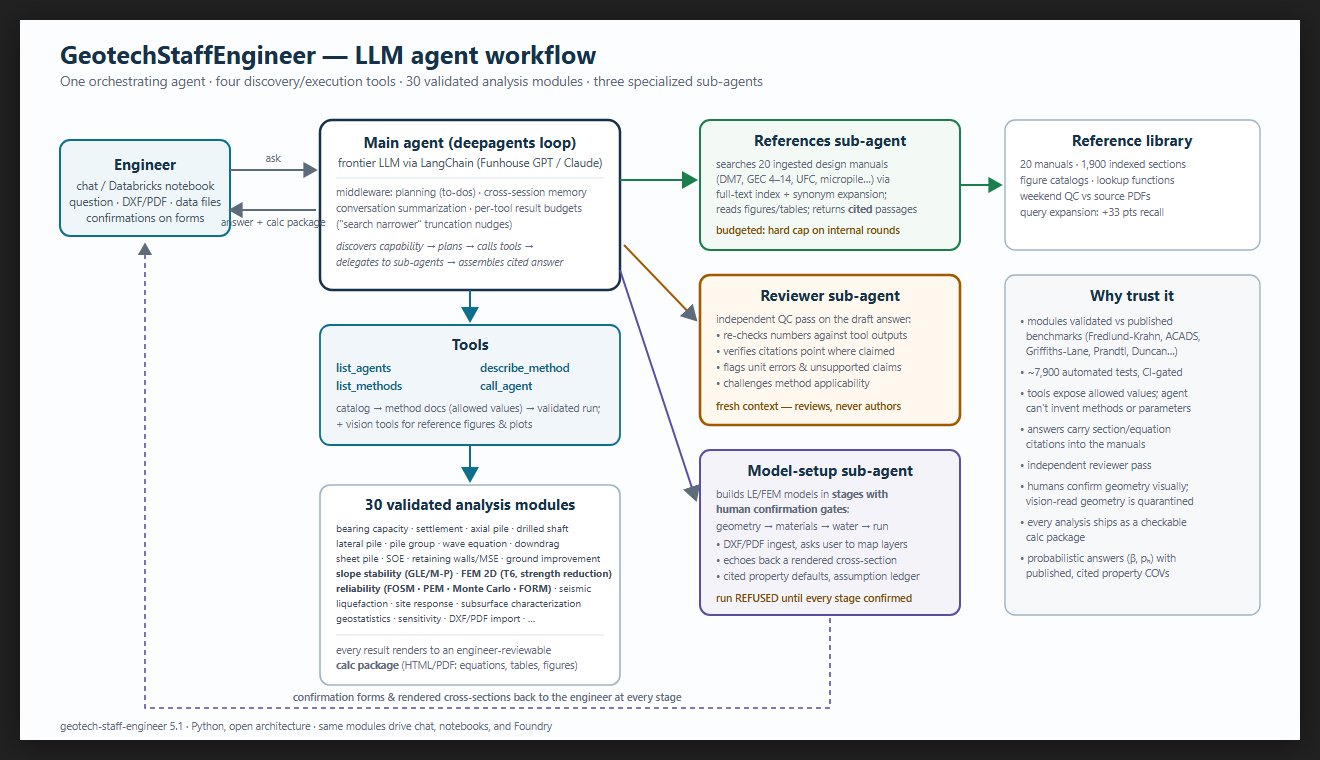
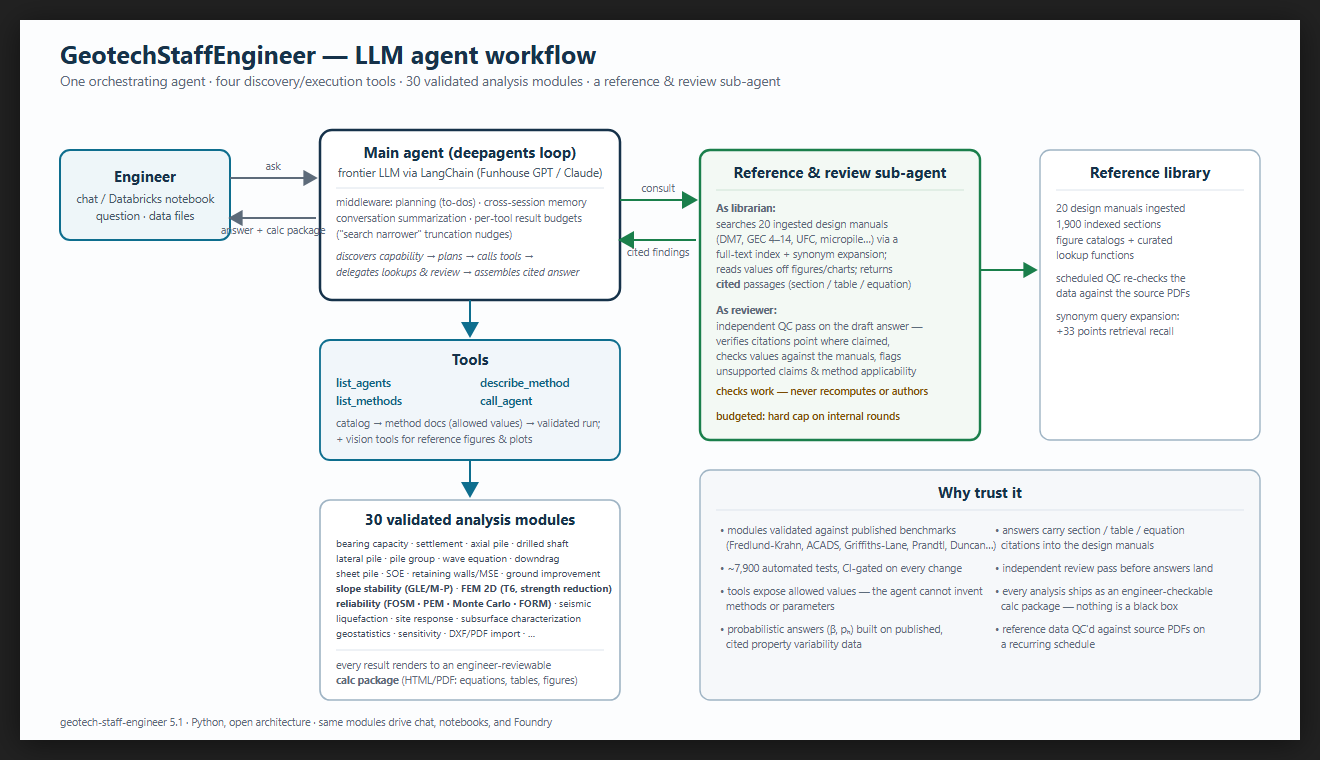
docs: slide rev - single reference & review sub-agent box, model-setup removed for presentation

Changed region(s): [[0.0311, 0.1513, 0.9629, 0.9684], [0.4348, 0.0908, 0.5902, 0.1211], [0.9318, 0.575, 0.9629, 0.6355]]

diff --git a/docs/agent_workflow_slide.html b/docs/agent_workflow_slide.html
@@ -35,129 +35,122 @@
 
   <!-- Title -->
   <text x="40" y="44" class="title">GeotechStaffEngineer — LLM agent workflow</text>
-  <text x="40" y="66" class="subtitle">One orchestrating agent &middot; four discovery/execution tools &middot; 30 validated analysis modules &middot; three specialized sub-agents</text>
+  <text x="40" y="66" class="subtitle">One orchestrating agent &middot; four discovery/execution tools &middot; 30 validated analysis modules &middot; a reference &amp; review sub-agent</text>
 
   <!-- ============ USER ============ -->
-  <rect x="40" y="120" width="170" height="96" rx="10" fill="#eef6f9" stroke="#0e6e8e" stroke-width="2"/>
-  <text x="125" y="150" text-anchor="middle" class="boxtitle">Engineer</text>
-  <text x="125" y="170" text-anchor="middle" class="boxsub">chat / Databricks notebook</text>
-  <text x="125" y="186" text-anchor="middle" class="boxsub">question &middot; DXF/PDF &middot; data files</text>
-  <text x="125" y="202" text-anchor="middle" class="boxsub">confirmations on forms</text>
+  <rect x="40" y="130" width="170" height="90" rx="10" fill="#eef6f9" stroke="#0e6e8e" stroke-width="2"/>
+  <text x="125" y="162" text-anchor="middle" class="boxtitle">Engineer</text>
+  <text x="125" y="183" text-anchor="middle" class="boxsub">chat / Databricks notebook</text>
+  <text x="125" y="200" text-anchor="middle" class="boxsub">question &middot; data files</text>
 
   <!-- ============ MAIN AGENT ============ -->
-  <rect x="300" y="100" width="300" height="170" rx="12" fill="#ffffff" stroke="#16324a" stroke-width="2.5"/>
-  <text x="450" y="128" text-anchor="middle" class="boxtitle">Main agent (deepagents loop)</text>
-  <text x="450" y="147" text-anchor="middle" class="boxsub">frontier LLM via LangChain (Funhouse GPT / Claude)</text>
-  <line x1="316" y1="158" x2="584" y2="158" stroke="#dde4ec"/>
-  <text x="316" y="176" class="small">middleware: planning (to-dos) &middot; cross-session memory</text>
-  <text x="316" y="192" class="small">conversation summarization &middot; per-tool result budgets</text>
-  <text x="316" y="208" class="small">("search narrower" truncation nudges)</text>
-  <text x="316" y="230" class="small" font-style="italic">discovers capability &rarr; plans &rarr; calls tools &rarr;</text>
-  <text x="316" y="246" class="small" font-style="italic">delegates to sub-agents &rarr; assembles cited answer</text>
+  <rect x="300" y="110" width="300" height="170" rx="12" fill="#ffffff" stroke="#16324a" stroke-width="2.5"/>
+  <text x="450" y="138" text-anchor="middle" class="boxtitle">Main agent (deepagents loop)</text>
+  <text x="450" y="157" text-anchor="middle" class="boxsub">frontier LLM via LangChain (Funhouse GPT / Claude)</text>
+  <line x1="316" y1="168" x2="584" y2="168" stroke="#dde4ec"/>
+  <text x="316" y="186" class="small">middleware: planning (to-dos) &middot; cross-session memory</text>
+  <text x="316" y="202" class="small">conversation summarization &middot; per-tool result budgets</text>
+  <text x="316" y="218" class="small">("search narrower" truncation nudges)</text>
+  <text x="316" y="240" class="small" font-style="italic">discovers capability &rarr; plans &rarr; calls tools &rarr;</text>
+  <text x="316" y="256" class="small" font-style="italic">delegates lookups &amp; review &rarr; assembles cited answer</text>
 
   <!-- user <-> agent arrows -->
-  <line x1="210" y1="150" x2="296" y2="150" stroke="#5d6b7a" stroke-width="1.8" marker-end="url(#arr)"/>
-  <line x1="296" y1="190" x2="210" y2="190" stroke="#5d6b7a" stroke-width="1.8" marker-end="url(#arr)"/>
-  <text x="253" y="142" text-anchor="middle" class="small">ask</text>
-  <text x="253" y="206" text-anchor="middle" class="small">answer + calc package</text>
+  <line x1="210" y1="158" x2="296" y2="158" stroke="#5d6b7a" stroke-width="1.8" marker-end="url(#arr)"/>
+  <line x1="296" y1="198" x2="210" y2="198" stroke="#5d6b7a" stroke-width="1.8" marker-end="url(#arr)"/>
+  <text x="253" y="150" text-anchor="middle" class="small">ask</text>
+  <text x="253" y="214" text-anchor="middle" class="small">answer + calc package</text>
 
   <!-- ============ TOOLS ============ -->
-  <rect x="300" y="305" width="300" height="120" rx="10" fill="#f1f6fa" stroke="#0e6e8e" stroke-width="1.8"/>
-  <text x="450" y="330" text-anchor="middle" class="boxtitle" fill="#0e5e7e">Tools</text>
-  <text x="316" y="352" class="tooltxt">list_agents</text>
-  <text x="316" y="370" class="tooltxt">list_methods</text>
-  <text x="460" y="352" class="tooltxt">describe_method</text>
-  <text x="460" y="370" class="tooltxt">call_agent</text>
-  <text x="316" y="392" class="small">catalog &rarr; method docs (allowed values) &rarr; validated run;</text>
-  <text x="316" y="408" class="small">+ vision tools for reference figures &amp; plots</text>
+  <rect x="300" y="320" width="300" height="120" rx="10" fill="#f1f6fa" stroke="#0e6e8e" stroke-width="1.8"/>
+  <text x="450" y="345" text-anchor="middle" class="boxtitle" fill="#0e5e7e">Tools</text>
+  <text x="316" y="367" class="tooltxt">list_agents</text>
+  <text x="316" y="385" class="tooltxt">list_methods</text>
+  <text x="460" y="367" class="tooltxt">describe_method</text>
+  <text x="460" y="385" class="tooltxt">call_agent</text>
+  <text x="316" y="407" class="small">catalog &rarr; method docs (allowed values) &rarr; validated run;</text>
+  <text x="316" y="423" class="small">+ vision tools for reference figures &amp; plots</text>
 
-  <line x1="450" y1="270" x2="450" y2="301" stroke="#0e6e8e" stroke-width="2" marker-end="url(#arrB)"/>
+  <line x1="450" y1="280" x2="450" y2="316" stroke="#0e6e8e" stroke-width="2" marker-end="url(#arrB)"/>
 
   <!-- ============ MODULES ============ -->
-  <rect x="300" y="465" width="300" height="200" rx="10" fill="#ffffff" stroke="#9fb4c4" stroke-width="1.6"/>
-  <text x="450" y="490" text-anchor="middle" class="boxtitle">30 validated analysis modules</text>
-  <text x="316" y="512" class="modtxt">bearing capacity &middot; settlement &middot; axial pile &middot; drilled shaft</text>
-  <text x="316" y="527" class="modtxt">lateral pile &middot; pile group &middot; wave equation &middot; downdrag</text>
-  <text x="316" y="542" class="modtxt">sheet pile &middot; SOE &middot; retaining walls/MSE &middot; ground improvement</text>
-  <text x="316" y="557" class="modtxt"><tspan font-weight="700">slope stability (GLE/M-P)</tspan> &middot; <tspan font-weight="700">FEM 2D (T6, strength reduction)</tspan></text>
-  <text x="316" y="572" class="modtxt"><tspan font-weight="700">reliability (FOSM &middot; PEM &middot; Monte Carlo &middot; FORM)</tspan> &middot; seismic</text>
-  <text x="316" y="587" class="modtxt">liquefaction &middot; site response &middot; subsurface characterization</text>
-  <text x="316" y="602" class="modtxt">geostatistics &middot; sensitivity &middot; DXF/PDF import &middot; &hellip;</text>
-  <line x1="316" y1="615" x2="584" y2="615" stroke="#dde4ec"/>
-  <text x="316" y="634" class="small">every result renders to an engineer-reviewable</text>
-  <text x="316" y="649" class="small"><tspan font-weight="700">calc package</tspan> (HTML/PDF: equations, tables, figures)</text>
+  <rect x="300" y="480" width="300" height="200" rx="10" fill="#ffffff" stroke="#9fb4c4" stroke-width="1.6"/>
+  <text x="450" y="505" text-anchor="middle" class="boxtitle">30 validated analysis modules</text>
+  <text x="316" y="527" class="modtxt">bearing capacity &middot; settlement &middot; axial pile &middot; drilled shaft</text>
+  <text x="316" y="542" class="modtxt">lateral pile &middot; pile group &middot; wave equation &middot; downdrag</text>
+  <text x="316" y="557" class="modtxt">sheet pile &middot; SOE &middot; retaining walls/MSE &middot; ground improvement</text>
+  <text x="316" y="572" class="modtxt"><tspan font-weight="700">slope stability (GLE/M-P)</tspan> &middot; <tspan font-weight="700">FEM 2D (T6, strength reduction)</tspan></text>
+  <text x="316" y="587" class="modtxt"><tspan font-weight="700">reliability (FOSM &middot; PEM &middot; Monte Carlo &middot; FORM)</tspan> &middot; seismic</text>
+  <text x="316" y="602" class="modtxt">liquefaction &middot; site response &middot; subsurface characterization</text>
+  <text x="316" y="617" class="modtxt">geostatistics &middot; sensitivity &middot; DXF/PDF import &middot; &hellip;</text>
+  <line x1="316" y1="630" x2="584" y2="630" stroke="#dde4ec"/>
+  <text x="316" y="649" class="small">every result renders to an engineer-reviewable</text>
+  <text x="316" y="664" class="small"><tspan font-weight="700">calc package</tspan> (HTML/PDF: equations, tables, figures)</text>
 
-  <line x1="450" y1="425" x2="450" y2="461" stroke="#0e6e8e" stroke-width="2" marker-end="url(#arrB)"/>
+  <line x1="450" y1="440" x2="450" y2="476" stroke="#0e6e8e" stroke-width="2" marker-end="url(#arrB)"/>
 
-  <!-- ============ SUBAGENT: REFERENCES ============ -->
-  <rect x="680" y="100" width="260" height="130" rx="10" fill="#f3f9f4" stroke="#1a7f4b" stroke-width="2"/>
-  <text x="810" y="126" text-anchor="middle" class="boxtitle" fill="#155c39">References sub-agent</text>
-  <text x="696" y="148" class="small">searches 20 ingested design manuals</text>
-  <text x="696" y="163" class="small">(DM7, GEC 4&ndash;14, UFC, micropile&hellip;) via</text>
-  <text x="696" y="178" class="small">full-text index + synonym expansion;</text>
-  <text x="696" y="193" class="small">reads figures/tables; returns <tspan font-weight="700">cited</tspan> passages</text>
-  <text x="696" y="214" class="lbl" fill="#155c39">budgeted: hard cap on internal rounds</text>
+  <!-- ============ SUBAGENT: REFERENCES & REVIEW ============ -->
+  <rect x="680" y="130" width="280" height="290" rx="10" fill="#f3f9f4" stroke="#1a7f4b" stroke-width="2.4"/>
+  <text x="820" y="158" text-anchor="middle" class="boxtitle" fill="#155c39">Reference &amp; review sub-agent</text>
+  <line x1="696" y1="170" x2="944" y2="170" stroke="#cfe4d6"/>
 
-  <!-- ============ SUBAGENT: REVIEWER (highlighted) ============ -->
-  <rect x="680" y="255" width="260" height="150" rx="10" fill="#fff8ee" stroke="#a05a00" stroke-width="2.6"/>
-  <text x="810" y="281" text-anchor="middle" class="boxtitle" fill="#7a4a00">Reviewer sub-agent</text>
-  <text x="696" y="303" class="small">independent QC pass on the draft answer:</text>
-  <text x="696" y="319" class="small">&bull; re-checks numbers against tool outputs</text>
-  <text x="696" y="335" class="small">&bull; verifies citations point where claimed</text>
-  <text x="696" y="351" class="small">&bull; flags unit errors &amp; unsupported claims</text>
-  <text x="696" y="367" class="small">&bull; challenges method applicability</text>
-  <text x="696" y="390" class="lbl">fresh context — reviews, never authors</text>
+  <text x="696" y="192" class="small" font-weight="700" fill="#155c39">As librarian:</text>
+  <text x="696" y="208" class="small">searches 20 ingested design manuals</text>
+  <text x="696" y="223" class="small">(DM7, GEC 4&ndash;14, UFC, micropile&hellip;) via a</text>
+  <text x="696" y="238" class="small">full-text index + synonym expansion;</text>
+  <text x="696" y="253" class="small">reads values off figures/charts; returns</text>
+  <text x="696" y="268" class="small"><tspan font-weight="700">cited</tspan> passages (section / table / equation)</text>
 
-  <!-- ============ SUBAGENT: SETUP ============ -->
-  <rect x="680" y="430" width="260" height="165" rx="10" fill="#f4f3fa" stroke="#5b4ea0" stroke-width="2"/>
-  <text x="810" y="456" text-anchor="middle" class="boxtitle" fill="#473c85">Model-setup sub-agent</text>
-  <text x="696" y="478" class="small">builds LE/FEM models in <tspan font-weight="700">stages with</tspan></text>
-  <text x="696" y="493" class="small"><tspan font-weight="700">human confirmation gates</tspan>:</text>
-  <text x="696" y="510" class="small">geometry &rarr; materials &rarr; water &rarr; run</text>
-  <text x="696" y="528" class="small">&bull; DXF/PDF ingest, asks user to map layers</text>
-  <text x="696" y="544" class="small">&bull; echoes back a rendered cross-section</text>
-  <text x="696" y="560" class="small">&bull; cited property defaults, assumption ledger</text>
-  <text x="696" y="582" class="lbl" fill="#473c85">run REFUSED until every stage confirmed</text>
+  <text x="696" y="294" class="small" font-weight="700" fill="#155c39">As reviewer:</text>
+  <text x="696" y="310" class="small">independent QC pass on the draft answer —</text>
+  <text x="696" y="325" class="small">verifies citations point where claimed,</text>
+  <text x="696" y="340" class="small">checks values against the manuals, flags</text>
+  <text x="696" y="355" class="small">unsupported claims &amp; method applicability</text>
+  <text x="696" y="375" class="lbl" fill="#155c39">checks work — never recomputes or authors</text>
+  <text x="696" y="400" class="lbl" fill="#155c39">budgeted: hard cap on internal rounds</text>
 
   <!-- agent <-> subagent arrows -->
-  <line x1="600" y1="160" x2="676" y2="160" stroke="#1a7f4b" stroke-width="2" marker-end="url(#arrG)"/>
-  <line x1="604" y1="225" x2="676" y2="300" stroke="#a05a00" stroke-width="2" marker-end="url(#arr)"/>
-  <line x1="600" y1="250" x2="676" y2="480" stroke="#5b4ea0" stroke-width="2" marker-end="url(#arr)"/>
+  <line x1="600" y1="180" x2="676" y2="180" stroke="#1a7f4b" stroke-width="2" marker-end="url(#arrG)"/>
+  <line x1="676" y1="220" x2="600" y2="220" stroke="#1a7f4b" stroke-width="2" marker-end="url(#arrG)"/>
+  <text x="638" y="172" text-anchor="middle" class="small">consult</text>
+  <text x="638" y="236" text-anchor="middle" class="small">cited findings</text>
 
-  <!-- setup loop back to user -->
-  <path d="M 810 598 L 810 688 L 125 688 L 125 224" fill="none" stroke="#5b4ea0" stroke-width="1.6" stroke-dasharray="5 4" marker-end="url(#arr)"/>
-  <text x="467" y="681" text-anchor="middle" class="small" fill="#473c85" font-weight="600">confirmation forms &amp; rendered cross-sections back to the engineer at every stage</text>
+  <!-- ============ REFERENCE LIBRARY ============ -->
+  <rect x="1020" y="130" width="220" height="290" rx="10" fill="#ffffff" stroke="#9fb4c4" stroke-width="1.4"/>
+  <text x="1130" y="158" text-anchor="middle" class="boxtitle">Reference library</text>
+  <line x1="1036" y1="170" x2="1224" y2="170" stroke="#dde4ec"/>
+  <text x="1036" y="192" class="small">20 design manuals ingested</text>
+  <text x="1036" y="208" class="small">1,900 indexed sections</text>
+  <text x="1036" y="224" class="small">figure catalogs + curated</text>
+  <text x="1036" y="239" class="small">lookup functions</text>
+  <text x="1036" y="262" class="small">scheduled QC re-checks the</text>
+  <text x="1036" y="277" class="small">data against the source PDFs</text>
+  <text x="1036" y="300" class="small">synonym query expansion:</text>
+  <text x="1036" y="315" class="small">+33 points retrieval recall</text>
+  <line x1="960" y1="250" x2="1016" y2="250" stroke="#1a7f4b" stroke-width="1.8" marker-end="url(#arrG)"/>
 
-  <!-- knowledge base note under references -->
-  <rect x="985" y="100" width="255" height="130" rx="10" fill="#ffffff" stroke="#9fb4c4" stroke-width="1.4"/>
-  <text x="1112" y="126" text-anchor="middle" class="boxtitle">Reference library</text>
-  <text x="1000" y="148" class="small">20 manuals &middot; 1,900 indexed sections</text>
-  <text x="1000" y="164" class="small">figure catalogs &middot; lookup functions</text>
-  <text x="1000" y="180" class="small">weekend QC vs source PDFs</text>
-  <text x="1000" y="196" class="small">query expansion: +33 pts recall</text>
-  <line x1="940" y1="165" x2="981" y2="165" stroke="#1a7f4b" stroke-width="1.8" marker-end="url(#arrG)"/>
+  <!-- ============ WHY TRUST IT ============ -->
+  <rect x="680" y="450" width="560" height="230" rx="10" fill="#f6f8fa" stroke="#9fb4c4" stroke-width="1.4"/>
+  <text x="960" y="478" text-anchor="middle" class="boxtitle">Why trust it</text>
+  <line x1="696" y1="490" x2="1224" y2="490" stroke="#dde4ec"/>
 
-  <!-- guardrails column -->
-  <rect x="985" y="255" width="255" height="340" rx="10" fill="#f6f8fa" stroke="#9fb4c4" stroke-width="1.4"/>
-  <text x="1112" y="281" text-anchor="middle" class="boxtitle">Why trust it</text>
-  <text x="1000" y="305" class="small">&bull; modules validated vs published</text>
-  <text x="1000" y="320" class="small">&nbsp;&nbsp;benchmarks (Fredlund-Krahn, ACADS,</text>
-  <text x="1000" y="335" class="small">&nbsp;&nbsp;Griffiths-Lane, Prandtl, Duncan&hellip;)</text>
-  <text x="1000" y="356" class="small">&bull; ~7,900 automated tests, CI-gated</text>
-  <text x="1000" y="377" class="small">&bull; tools expose allowed values; agent</text>
-  <text x="1000" y="392" class="small">&nbsp;&nbsp;can't invent methods or parameters</text>
-  <text x="1000" y="413" class="small">&bull; answers carry section/equation</text>
-  <text x="1000" y="428" class="small">&nbsp;&nbsp;citations into the manuals</text>
-  <text x="1000" y="449" class="small">&bull; independent reviewer pass</text>
-  <text x="1000" y="470" class="small">&bull; humans confirm geometry visually;</text>
-  <text x="1000" y="485" class="small">&nbsp;&nbsp;vision-read geometry is quarantined</text>
-  <text x="1000" y="506" class="small">&bull; every analysis ships as a checkable</text>
-  <text x="1000" y="521" class="small">&nbsp;&nbsp;calc package</text>
-  <text x="1000" y="542" class="small">&bull; probabilistic answers (&beta;, p&#8341;) with</text>
-  <text x="1000" y="557" class="small">&nbsp;&nbsp;published, cited property COVs</text>
+  <text x="700" y="514" class="small">&bull; modules validated against published benchmarks</text>
+  <text x="700" y="529" class="small">&nbsp;&nbsp;(Fredlund-Krahn, ACADS, Griffiths-Lane, Prandtl, Duncan&hellip;)</text>
+  <text x="700" y="552" class="small">&bull; ~7,900 automated tests, CI-gated on every change</text>
+  <text x="700" y="575" class="small">&bull; tools expose allowed values — the agent cannot invent</text>
+  <text x="700" y="590" class="small">&nbsp;&nbsp;methods or parameters</text>
+  <text x="700" y="613" class="small">&bull; probabilistic answers (&beta;, p&#8341;) built on published,</text>
+  <text x="700" y="628" class="small">&nbsp;&nbsp;cited property variability data</text>
+
+  <text x="975" y="514" class="small">&bull; answers carry section / table / equation</text>
+  <text x="975" y="529" class="small">&nbsp;&nbsp;citations into the design manuals</text>
+  <text x="975" y="552" class="small">&bull; independent review pass before answers land</text>
+  <text x="975" y="575" class="small">&bull; every analysis ships as an engineer-checkable</text>
+  <text x="975" y="590" class="small">&nbsp;&nbsp;calc package — nothing is a black box</text>
+  <text x="975" y="613" class="small">&bull; reference data QC'd against source PDFs on</text>
+  <text x="975" y="628" class="small">&nbsp;&nbsp;a recurring schedule</text>
 
   <!-- footer -->
-  <text x="40" y="710" class="small">geotech-staff-engineer 5.1 &middot; Python, open architecture &middot; same modules drive chat, notebooks, and Foundry</text>
+  <text x="40" y="706" class="small">geotech-staff-engineer 5.1 &middot; Python, open architecture &middot; same modules drive chat, notebooks, and Foundry</text>
 </svg>
 </div>
 </body>